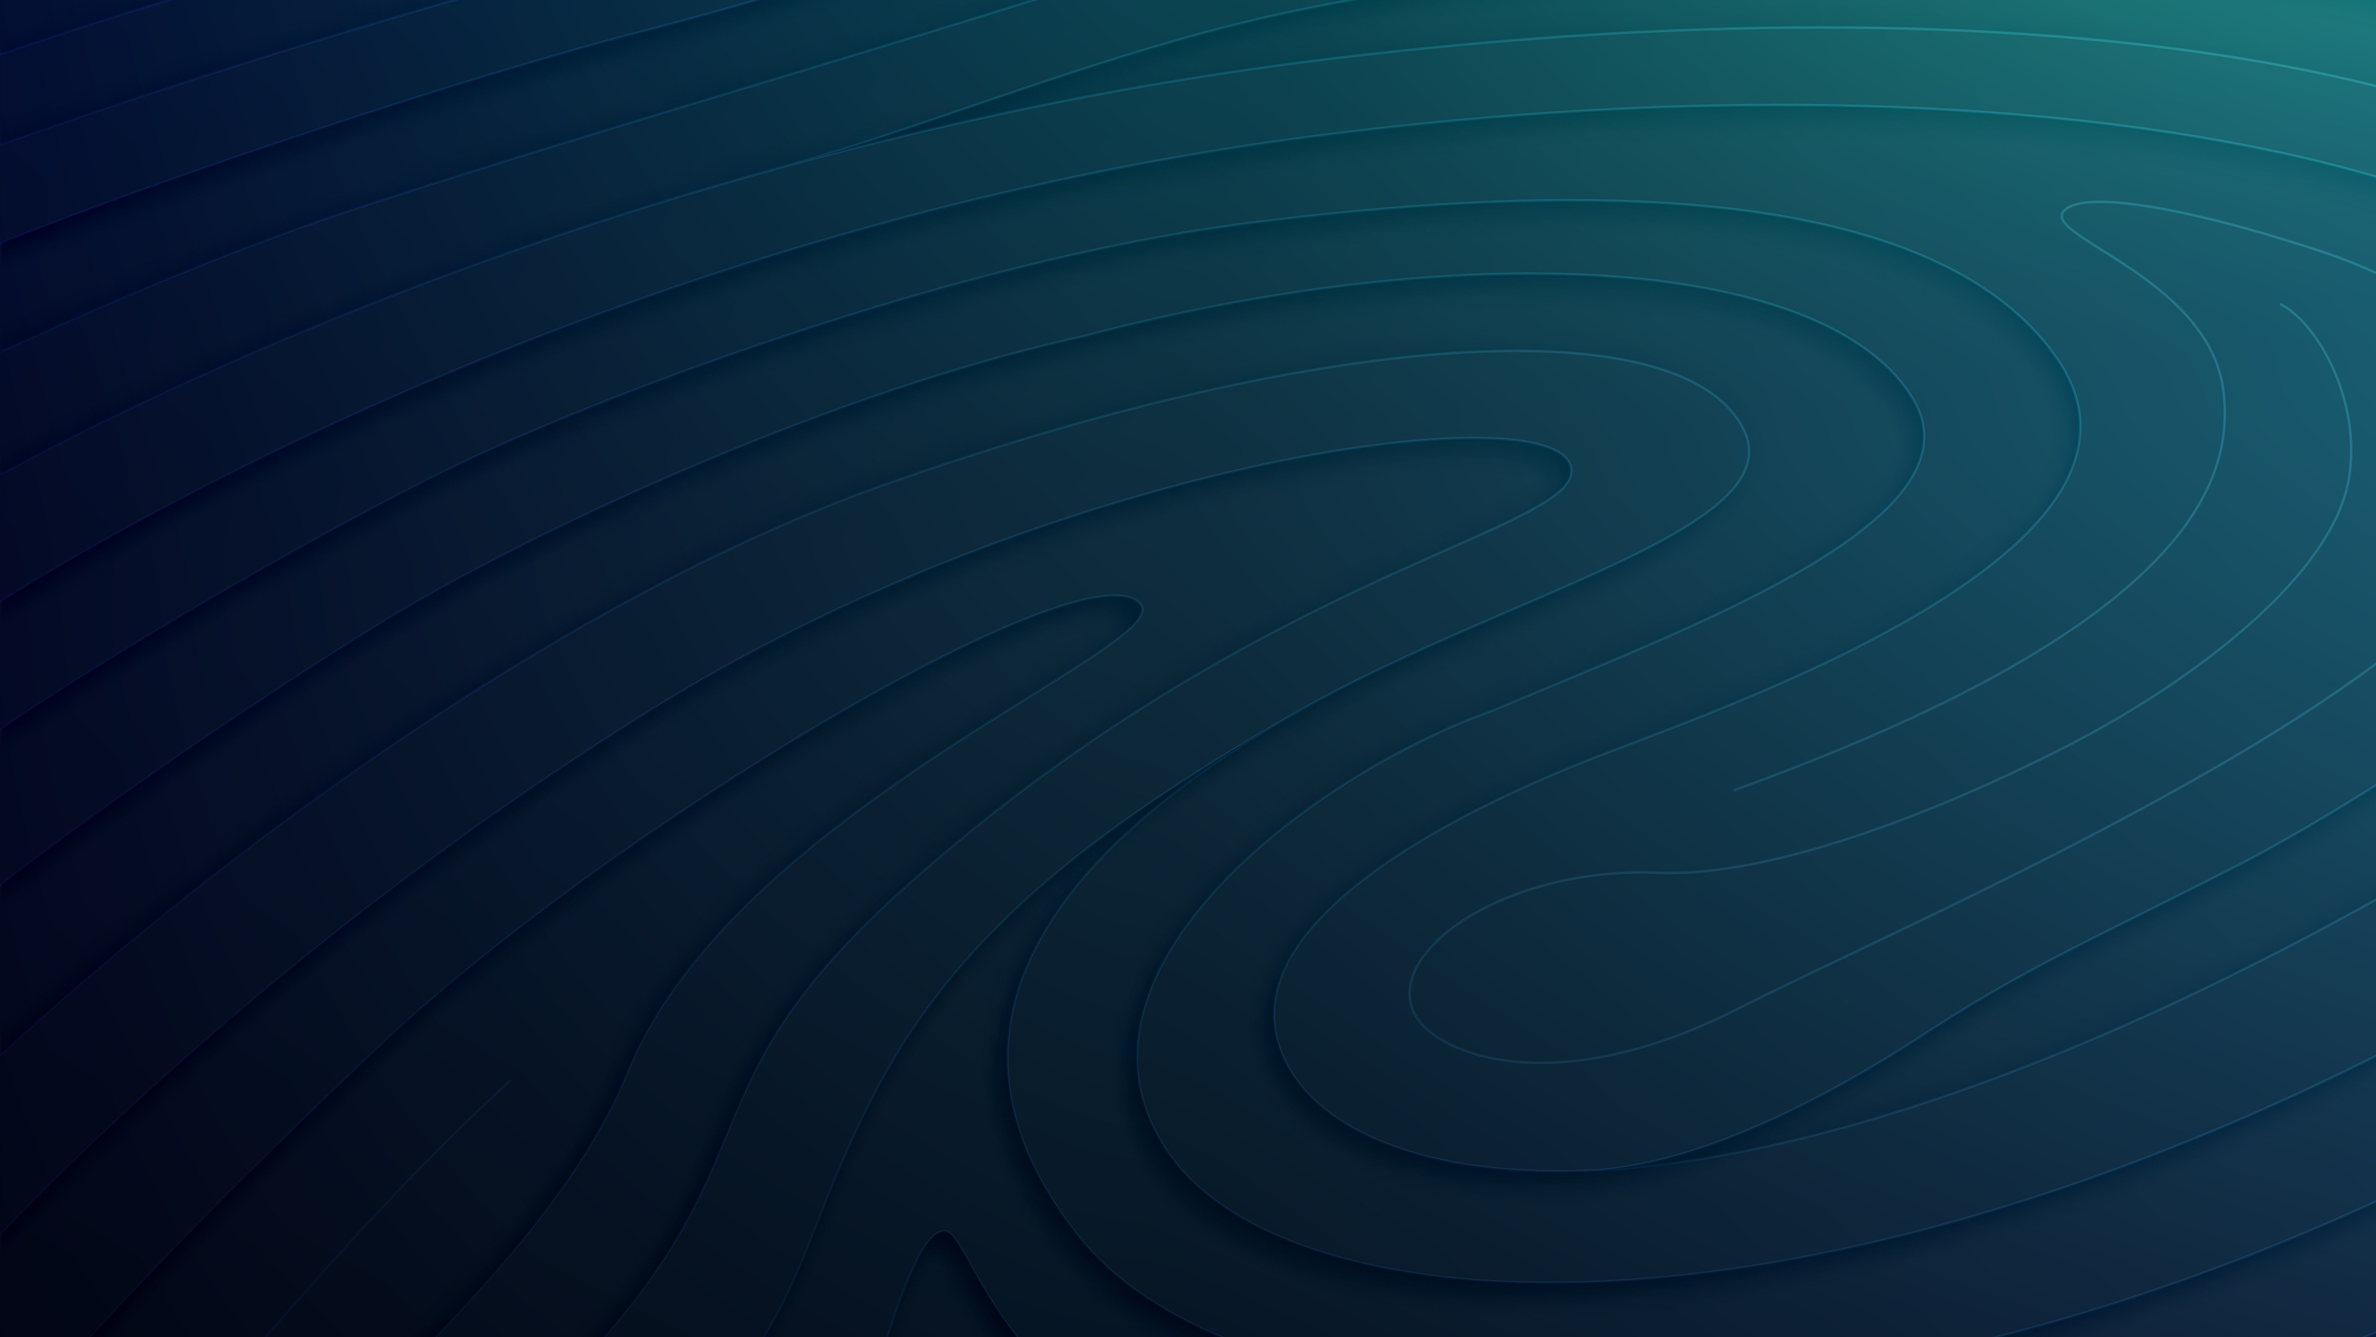
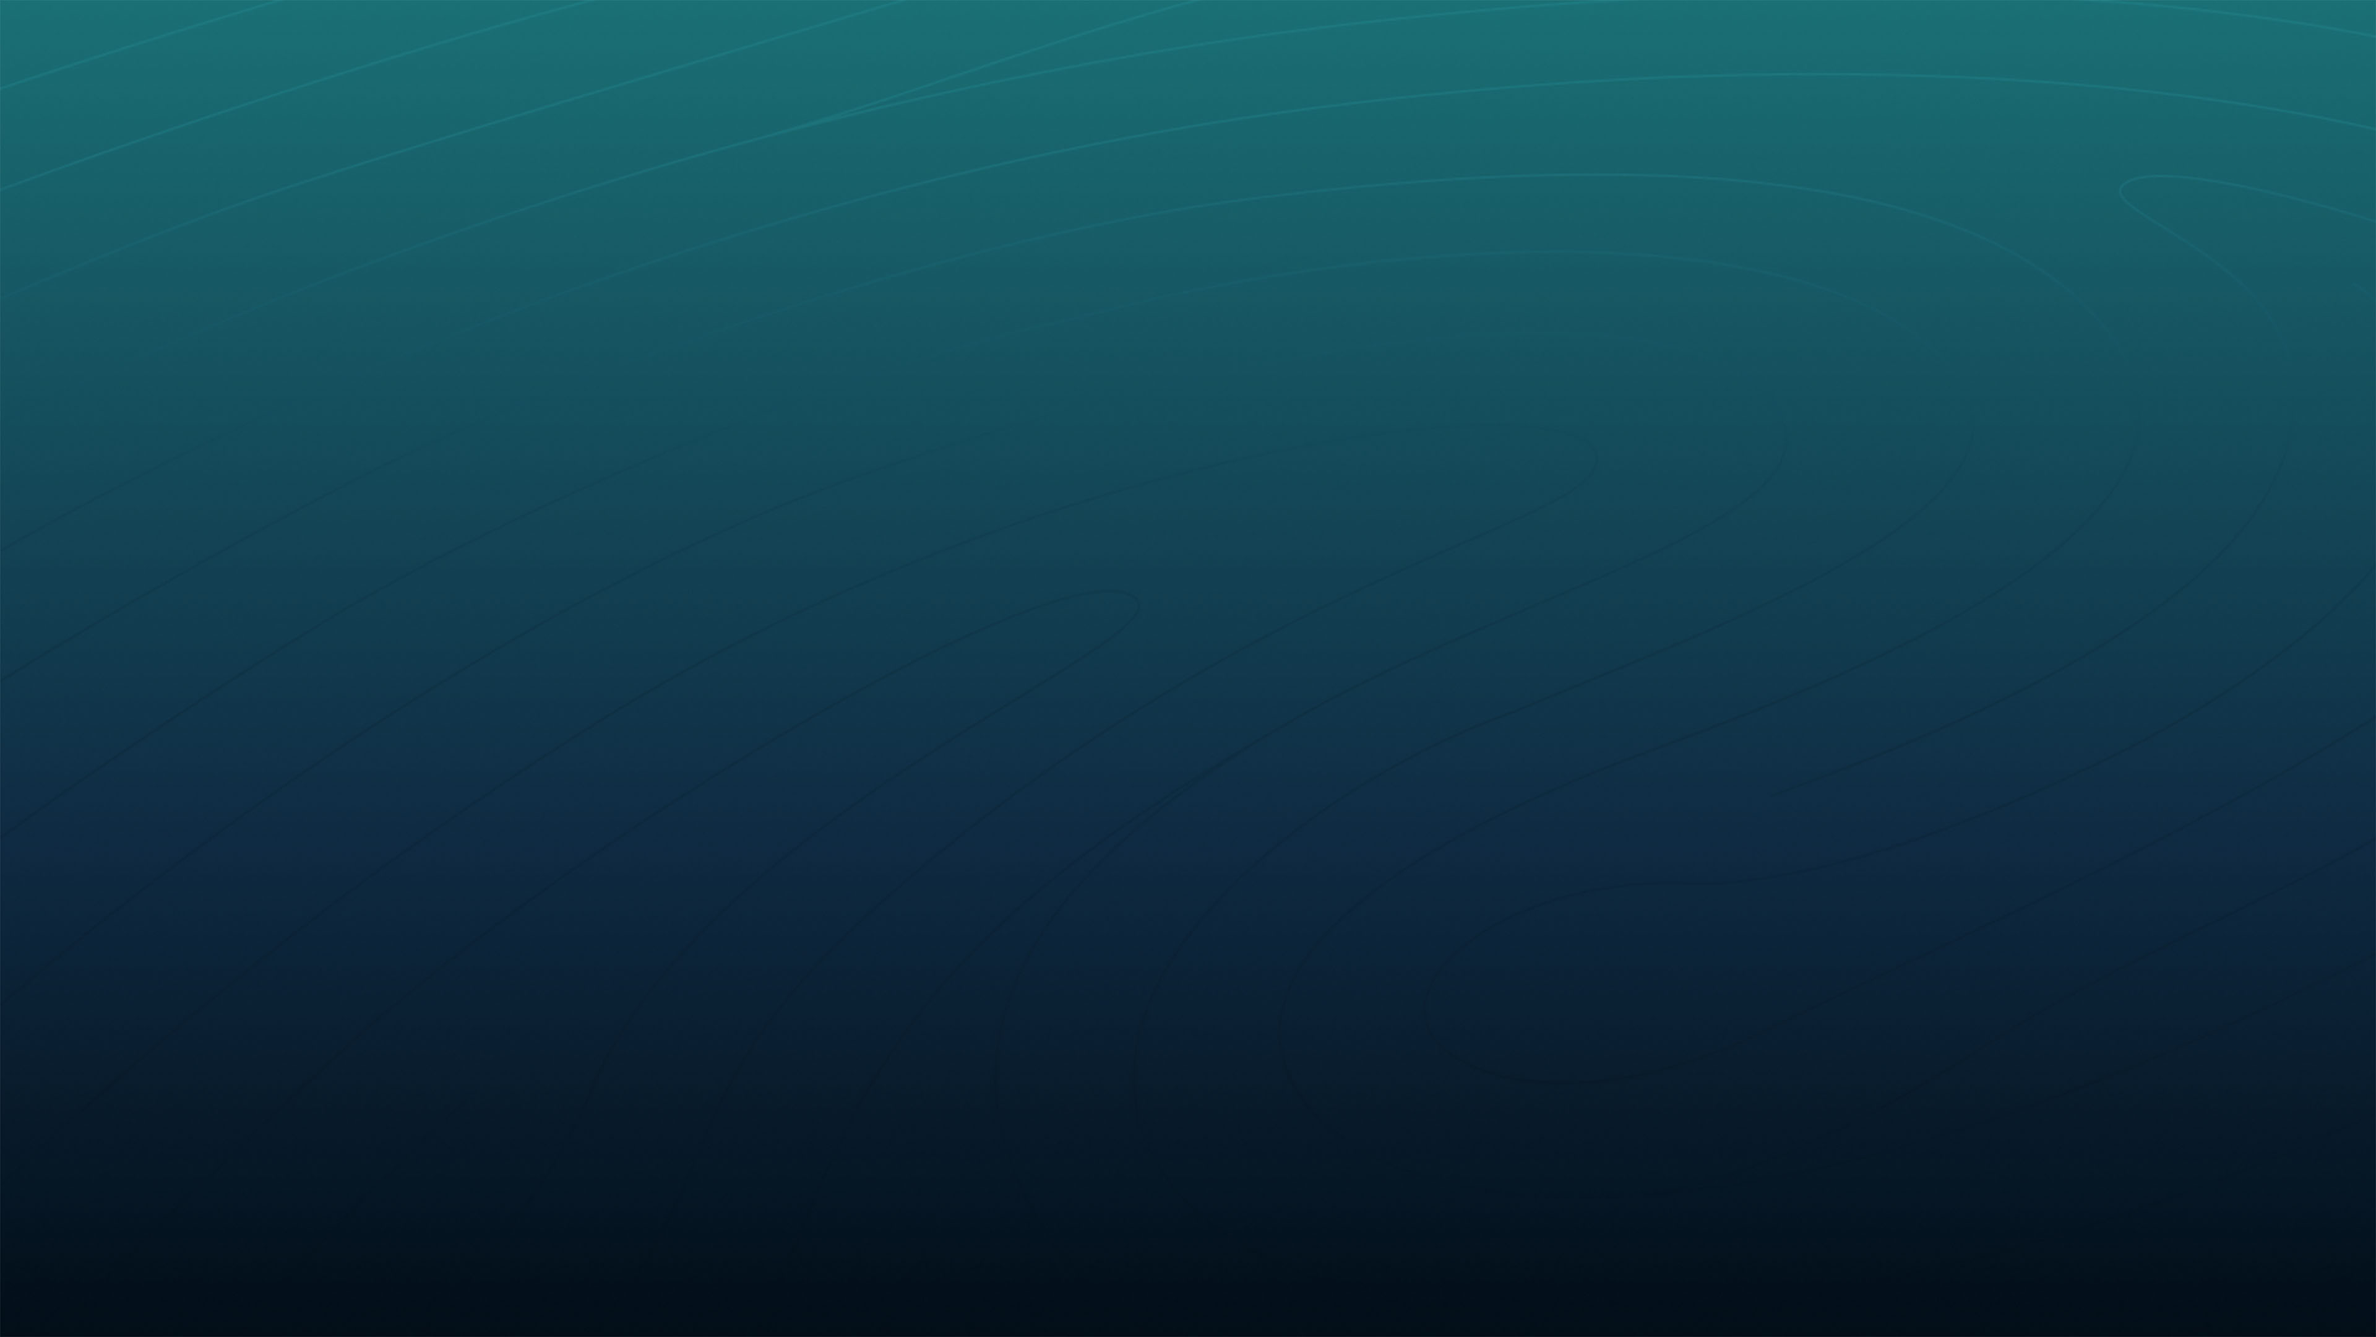
change background and adding footer component and changing language switcher component

diff --git a/src/components/Icons/LanguageEarthIcon.js b/src/components/Icons/LanguageEarthIcon.js
@@ -1,0 +1,36 @@
+import React from 'react'
+
+export default function LanguageEarthIcon({
+  className = 'text-[#30DB9E]',
+  size = 24
+}) {
+  return (
+    <div className={className}>
+      <svg
+        width={size}
+        viewBox="0 0 24 24"
+        fill="none"
+        xmlns="http://www.w3.org/2000/svg"
+      >
+        <path
+          fill-rule="evenodd"
+          clip-rule="evenodd"
+          d="M11.9999 20.0141C16.426 20.0141 20.0141 16.426 20.0141 11.9999C20.0141 7.57369 16.426 3.98557 11.9999 3.98557C7.57369 3.98557 3.98557 7.57369 3.98557 11.9999C3.98557 16.426 7.57369 20.0141 11.9999 20.0141ZM11.9999 21.4284C17.2071 21.4284 21.4284 17.2071 21.4284 11.9999C21.4284 6.7926 17.2071 2.57129 11.9999 2.57129C6.7926 2.57129 2.57129 6.7926 2.57129 11.9999C2.57129 17.2071 6.7926 21.4284 11.9999 21.4284Z"
+          fill="currentColor"
+        />
+        <path
+          fill-rule="evenodd"
+          clip-rule="evenodd"
+          d="M15.1116 17.3417C15.0088 17.5512 14.9005 17.7507 14.7874 17.9392C13.8996 19.4189 12.8701 20.0141 11.9999 20.0141C11.1297 20.0141 10.1002 19.4189 9.21245 17.9392C9.09933 17.7507 8.99103 17.5513 8.88823 17.3417C9.86241 17.546 10.9095 17.657 11.9999 17.657C13.0902 17.657 14.1374 17.546 15.1116 17.3417ZM16.8516 16.8516C15.8623 19.5938 14.0596 21.4284 11.9999 21.4284C9.94021 21.4284 8.13759 19.5938 7.14825 16.8516C4.40595 15.8623 2.57129 14.0596 2.57129 11.9999C2.57129 9.94015 4.40593 8.13751 7.14822 7.14818C8.13756 4.40591 9.94019 2.57129 11.9999 2.57129C14.0597 2.57129 15.8623 4.40594 16.8516 7.14823C19.5938 8.13757 21.4284 9.94018 21.4284 11.9999C21.4284 14.0596 19.5938 15.8622 16.8516 16.8516ZM17.3417 8.88821C17.5513 8.99102 17.7507 9.0993 17.9392 9.21243C19.4189 10.1002 20.0141 11.1297 20.0141 11.9999C20.0141 12.8701 19.4189 13.8996 17.9392 14.7874C17.7507 14.9005 17.5513 15.0088 17.3417 15.1116C17.546 14.1374 17.6571 13.0902 17.6571 11.9999C17.6571 10.9095 17.546 9.8624 17.3417 8.88821ZM15.7302 8.2696C16.0536 9.37464 16.2428 10.6395 16.2428 11.9999C16.2428 13.3602 16.0536 14.6251 15.7302 15.7302C14.6252 16.0536 13.3602 16.2427 11.9999 16.2427C10.6396 16.2427 9.37465 16.0536 8.26962 15.7302C7.94621 14.6252 7.75706 13.3602 7.75706 11.9999C7.75706 10.6395 7.9462 9.37461 8.2696 8.26956C9.37464 7.94617 10.6395 7.75703 11.9999 7.75703C13.3602 7.75703 14.6252 7.94618 15.7302 8.2696ZM15.1117 6.6581C15.0088 6.44852 14.9005 6.24907 14.7874 6.0605C13.8996 4.58086 12.8701 3.98557 11.9999 3.98557C11.1297 3.98557 10.1002 4.58086 9.21245 6.0605C9.09932 6.24906 8.99101 6.44851 8.8882 6.65807C9.86239 6.4538 10.9095 6.34275 11.9999 6.34275C13.0903 6.34275 14.1374 6.45381 15.1117 6.6581ZM6.65811 8.88815C6.44853 8.99097 6.24907 9.09928 6.0605 9.21242C4.58086 10.1002 3.98557 11.1297 3.98557 11.9999C3.98557 12.8701 4.58086 13.8996 6.0605 14.7874C6.24908 14.9005 6.44854 15.0088 6.65812 15.1116C6.45383 14.1374 6.34278 13.0903 6.34278 11.9999C6.34278 10.9095 6.45383 9.86235 6.65811 8.88815Z"
+          fill="currentColor"
+        />
+        <path
+          fill-rule="evenodd"
+          clip-rule="evenodd"
+          d="M11.0616 11.0616C11.0815 9.05445 11.1642 7.23225 11.2899 5.79513C11.3553 5.04819 11.4322 4.40527 11.5179 3.89447C11.659 3.05406 11.8238 2.57129 11.9999 2.57129C12.176 2.57129 12.3408 3.05406 12.4818 3.89447C12.5676 4.40527 12.6445 5.04819 12.7098 5.79513C12.8355 7.23225 12.9183 9.05445 12.9381 11.0616C14.9453 11.0814 16.7675 11.1642 18.2046 11.2899C18.9515 11.3553 19.5945 11.4322 20.1053 11.5179C20.9457 11.6589 21.4284 11.8238 21.4284 11.9999C21.4284 12.176 20.9457 12.3408 20.1053 12.4818C19.5945 12.5675 18.9515 12.6445 18.2046 12.7098C16.7675 12.8355 14.9453 12.9183 12.9381 12.9381C12.9183 14.9453 12.8355 16.7675 12.7098 18.2046C12.6445 18.9515 12.5676 19.5945 12.4818 20.1053C12.3408 20.9457 12.176 21.4284 11.9999 21.4284C11.8238 21.4284 11.659 20.9457 11.5179 20.1053C11.4322 19.5945 11.3553 18.9515 11.2899 18.2046C11.1642 16.7675 11.0815 14.9453 11.0616 12.9381C9.05447 12.9183 7.23226 12.8355 5.79513 12.7098C5.04819 12.6445 4.40527 12.5675 3.89447 12.4818C3.05406 12.3408 2.57129 12.176 2.57129 11.9999C2.57129 11.8238 3.05406 11.6589 3.89447 11.5179C4.40527 11.4322 5.04819 11.3553 5.79513 11.2899C7.23226 11.1642 9.05447 11.0814 11.0616 11.0616Z"
+          fill="currentColor"
+        />
+      </svg>
+    </div>
+  )
+}

diff --git a/src/routes/Home.js b/src/routes/Home.js
@@ -1,11 +1,7 @@
 import React, { useEffect, useState } from 'react'
-import { useQuery } from '@apollo/client'
-import { Link } from 'react-router-dom'
-import styled from '@emotion/styled/macro'
-import { motion } from 'framer-motion'
+import { useQuery, gql } from '@apollo/client'
 import { useTranslation } from 'react-i18next'
 import { useSelector, useDispatch } from 'react-redux'
-import mq from 'mediaQuery'
 
 import { GET_REVERSE_RECORD } from 'graphql/queries'
 
@@ -14,18 +10,19 @@ import { getAccounts, getHomeData } from 'app/slices/accountSlice'
 import SearchDefault from '../components/SearchName/Search'
 import NoAccountsDefault from '../components/NoAccounts/NoAccountsModal'
 import bg from '../assets/heroBG.jpg'
-import MaskGroup from '../assets/mask-group.png'
-import ENSLogo from '../components/HomePage/images/ENSLogo.svg'
-import { aboutPageURL } from '../utils/utils'
 import { connectProvider, disconnectProvider } from '../utils/providerUtils'
-import { gql } from '@apollo/client'
+import {} from '@apollo/client'
 import HamburgerIcon from 'components/Icons/HamburgerIcon'
 import SmallLogoIcon from 'components/Icons/SmallLogoIcon'
 import MobileMenu from 'components/Menu/MobileMenu'
 
 import UnstyledBlockies from 'components/Blockies'
+import TwitterIcon from 'components/Icons/TwitterIcon'
+import DiscordIcon from 'components/DiscordIcon'
+import RoundedIcon from 'components/Icons/RoundedIcon'
 
 import './Home.scss'
+import LanguageSwitcher from 'components/LanguageSwitcher'
 
 export const HOME_DATA = gql`
   query getHomeData($address: string) @client {
@@ -110,6 +107,7 @@ export default ({ match }) => {
         <div className="text-[34px] font-bold">SPACE ID</div>
       </div> */}
 
+      {/* Header component in the home page */}
       <div className="h-[100px] flex py-[20px] px-[48px] xl:px-[48px] justify-between absolute left-0 top-0 items-center w-full">
         <div className="text-[#1EEFA4] flex items-center">
           <SmallLogoIcon size={40} className="text-[#1EEFA4]" />
@@ -150,32 +148,20 @@ export default ({ match }) => {
             </div>
           )}
         </div>
-
-        {/* <div className="hidden lg:flex justify-center items-center z-[1] font-bold">
-          {accounts?.length > 0 && !isReadOnly && (
-            <div className="ml-4 text-right tracking-[0.08em] min-w-[100px] first:ml-0">
-              <Link
-                style={{ color: '#25ffb1' }}
-                active={url === '/address/' + accounts[0]}
-                to={'/address/' + accounts[0]}
-              >
-                {t('c.mynames')}
-              </Link>
-            </div>
-          )}
-          <div className="ml-4 text-right tracking-[0.08em] min-w-[100px] font-bold first:ml-0">
-            <Link style={{ color: '#25ffb1' }} to="/favourites">
-              {t('c.favourites')}
-            </Link>
-          </div>
-          <a
-            className="text-right ml-4 text-[#25ffb1] min-w-[100px] font-bold font-[16px] leading-[19px] first:ml-0"
-            href={aboutPageURL()}
-          >
-            {t('c.about')}
-          </a>
-        </div> */}
       </div>
+
+      {/* Footer component in the home page */}
+      <div className="h-[44px] flex py-[20px] px-[64px] xl:px-[48px] justify-between absolute left-0 bottom-0 items-center w-full bg-[#071A2F]">
+        <div className="flex items-center">
+          <TwitterIcon className="mr-2 text-[#30DB9E]" />
+          <DiscordIcon className="mr-2 text-[#30DB9E]" />
+          <RoundedIcon />
+        </div>
+        <div>
+          <LanguageSwitcher />
+        </div>
+      </div>
+
       <div
         className="flex lg:hidden items-center flex absolute top-[40px] right-7 height-[100px]"
         onClick={() => menuOpen()}
@@ -186,6 +172,7 @@ export default ({ match }) => {
           }}
         />
       </div>
+
       <div className="my-0 mx-auto min-w-[100%] md:min-w-[60%] mt-[30vh]">
         <>
           <div className="flex justify-center text-[72px] text-[#1EEFA4] font-bold font-urbanist tracking-widest">

diff --git a/src/components/DiscordIcon.js b/src/components/DiscordIcon.js
@@ -1,0 +1,25 @@
+import React from 'react'
+
+export default function DiscordIcon({
+  className = 'text-[#30DB9E]',
+  size = 24
+}) {
+  return (
+    <div className={className}>
+      <svg
+        width={size}
+        height="24"
+        viewBox="0 0 24 24"
+        fill="none"
+        xmlns="http://www.w3.org/2000/svg"
+      >
+        <path
+          fill-rule="evenodd"
+          clip-rule="evenodd"
+          d="M5.90011 3.36279H17.8813C18.8917 3.36279 19.7143 4.18606 19.7143 5.20619V21.2598L17.7919 19.5596L16.71 18.5574L15.5656 17.4925L16.0394 19.148H5.90011C4.88975 19.148 4.06716 18.3247 4.06716 17.3046V5.20619C4.06716 4.18606 4.88975 3.36279 5.90011 3.36279ZM13.8399 14.3247C14.1081 14.6648 14.43 15.0496 14.43 15.0496C16.406 14.9869 17.166 13.6894 17.166 13.6894C17.166 10.808 15.8785 8.4724 15.8785 8.4724C14.591 7.50596 13.366 7.5328 13.366 7.5328L13.2408 7.67598C14.7609 8.1413 15.4672 8.81244 15.4672 8.81244C14.5373 8.30238 13.6253 8.05182 12.7759 7.95338C12.1321 7.8818 11.5152 7.89969 10.9698 7.97128C10.9229 7.97128 10.8829 7.9781 10.8378 7.98579C10.8313 7.9869 10.8246 7.98804 10.8178 7.98918C10.5048 8.01602 9.74483 8.13235 8.78812 8.55293C8.4573 8.70506 8.26059 8.81244 8.26059 8.81244C8.26059 8.81244 9.00271 8.10551 10.6121 7.64019L10.5227 7.5328C10.5227 7.5328 9.29777 7.50596 8.01024 8.4724C8.01024 8.4724 6.7227 10.808 6.7227 13.6894C6.7227 13.6894 7.47376 14.9869 9.44977 15.0496C9.44977 15.0496 9.7806 14.6469 10.0488 14.3068C8.9133 13.9668 8.48412 13.2509 8.48412 13.2509C8.48412 13.2509 8.57353 13.3135 8.73447 13.403C8.74342 13.412 8.75236 13.4209 8.77024 13.4299C8.78365 13.4388 8.79706 13.4455 8.81047 13.4522C8.82389 13.459 8.8373 13.4657 8.85071 13.4746C9.07424 13.5999 9.29777 13.6983 9.50342 13.7789C9.87001 13.922 10.3081 14.0652 10.8178 14.1637C11.4884 14.2889 12.2752 14.3337 13.1336 14.1726C13.5538 14.101 13.983 13.9757 14.43 13.7878C14.743 13.6715 15.0917 13.5015 15.4583 13.2599C15.4583 13.2599 15.0112 13.9936 13.8399 14.3247ZM9.36045 11.8641C9.36045 11.3183 9.7628 10.8708 10.2725 10.8708C10.7821 10.8708 11.1934 11.3183 11.1845 11.8641C11.1845 12.41 10.7821 12.8574 10.2725 12.8574C9.77175 12.8574 9.36045 12.41 9.36045 11.8641ZM12.624 11.8641C12.624 11.3183 13.0263 10.8708 13.536 10.8708C14.0456 10.8708 14.448 11.3183 14.448 11.8641C14.448 12.41 14.0456 12.8574 13.536 12.8574C13.0353 12.8574 12.624 12.41 12.624 11.8641Z"
+          fill="#30DB9E"
+        />
+      </svg>
+    </div>
+  )
+}

diff --git a/src/components/LanguageSwitcher/LanguageSwitcher.js b/src/components/LanguageSwitcher/LanguageSwitcher.js
@@ -6,6 +6,7 @@ import { useOnClickOutside } from 'components/hooks'
 import RotatingSmallCaret from '../Icons/RotatingSmallCaret'
 
 import './LanguageSwitcher.scss'
+import LanguageEarthIcon from 'components/Icons/LanguageEarthIcon'
 
 const LANGUAGES = [
   {
@@ -89,23 +90,26 @@ export default function LanguageSwitcher() {
   }
 
   return (
-    <div className="relative bg-[#93c4b214]">
+    <div className="relative">
       <div
         className="text-[#adbbcd] uppercase flex justify-enter h-full py-0 px-[6px] items-center hover:cursor-pointer"
         ref={togglerRef}
         onClick={() => setShowDropdown(show => !show)}
       >
-        <span className="mr-0 text-white">{languageSelected.value}</span>
-        <RotatingSmallCaret
+        <span className="mr-0 text-[#30DB9E] font-semibold font-urbanist text-[16px] mr-1">
+          {languageSelected.value}
+        </span>
+        <LanguageEarthIcon />
+        {/* <RotatingSmallCaret
           start="top"
           rotated={showDropdown ? 1 : 0}
           highlight={1}
-        />
+        /> */}
       </div>
       {showDropdown && (
         <AnimatePresence>
           <motion.div
-            className="absolute bg-white top-[100%] right-0 mt-[10px] rounded-[8px] shadow-dropdown w-[230px] z-[2] max-h-[180px] overflow-y-auto dropdown-container"
+            className="absolute bg-[#071A2F] bottom-0 right-0 mt-[10px] rounded-[8px] shadow-dropdown w-[230px] z-[2] max-h-[180px] overflow-y-auto dropdown-container border border-[##1EEFA4]"
             ref={dropdownRef}
             initial={{ opacity: 0, height: 0 }}
             animate={{ opacity: 1, height: 'auto' }}

diff --git a/src/components/Icons/TwitterIcon.js b/src/components/Icons/TwitterIcon.js
@@ -1,0 +1,22 @@
+import React from 'react'
+
+export default function TwitterIcon({
+  className = 'text-[#30DB9E]',
+  size = 20
+}) {
+  return (
+    <div className={className}>
+      <svg
+        width={size}
+        viewBox="0 0 20 17"
+        fill="none"
+        xmlns="http://www.w3.org/2000/svg"
+      >
+        <path
+          d="M6.38252 16.25C13.7414 16.25 17.7656 10.1912 17.7656 4.93713C17.7656 4.76504 17.7621 4.59372 17.7543 4.42319C18.5355 3.86195 19.2145 3.16158 19.75 2.36429C19.0332 2.68096 18.2617 2.89413 17.4525 2.99025C18.2785 2.49801 18.9126 1.71934 19.2118 0.791082C18.4388 1.2465 17.5828 1.57751 16.6713 1.75621C15.9413 0.98338 14.9019 0.5 13.751 0.5C11.5417 0.5 9.75004 2.28063 9.75004 4.4755C9.75004 4.78751 9.78514 5.091 9.85378 5.38211C6.52868 5.21583 3.58024 3.63367 1.60697 1.2279C1.26338 1.81548 1.06526 2.49803 1.06526 3.22632C1.06526 4.60576 1.77157 5.82354 2.84563 6.53596C2.18924 6.51581 1.57265 6.33673 1.03372 6.03868C1.03313 6.05536 1.03313 6.07163 1.03313 6.08945C1.03313 8.01504 2.41218 9.62274 4.2428 9.98705C3.90662 10.0781 3.55292 10.127 3.18785 10.127C2.93046 10.127 2.67968 10.1018 2.43593 10.0553C2.94527 11.6351 4.42222 12.7847 6.17327 12.8168C4.80397 13.8835 3.07903 14.5188 1.20431 14.5188C0.881781 14.5188 0.563154 14.5005 0.25 14.4637C2.02061 15.5916 4.12305 16.2498 6.38273 16.2498"
+          fill="currentColor"
+        />
+      </svg>
+    </div>
+  )
+}

diff --git a/src/components/Icons/RoundedIcon.js b/src/components/Icons/RoundedIcon.js
@@ -1,0 +1,24 @@
+import React from 'react'
+
+export default function RoundedIcon({
+  className = 'text-[#30DB9E]',
+  size = 24
+}) {
+  return (
+    <div className={className}>
+      <svg
+        width={size}
+        viewBox="0 0 24 24"
+        fill="none"
+        xmlns="http://www.w3.org/2000/svg"
+      >
+        <path
+          fill-rule="evenodd"
+          clip-rule="evenodd"
+          d="M13.4209 12.0068C13.4209 15.7384 10.4165 18.7634 6.71056 18.7634C3.00463 18.7634 0 15.7384 0 12.0068C0 8.27524 3.00441 5.25 6.71056 5.25C10.4167 5.25 13.4209 8.27524 13.4209 12.0068ZM20.7823 12.0069C20.7823 15.5193 19.2801 18.3679 17.427 18.3679C15.5739 18.3679 14.0717 15.5193 14.0717 12.0069C14.0717 8.49442 15.5737 5.64587 17.4268 5.64587C19.2799 5.64587 20.7821 8.49351 20.7821 12.0069H20.7823ZM22.6133 17.7053C23.2651 17.7053 23.7934 15.1531 23.7934 12.0068C23.7934 8.85959 23.2649 6.30835 22.6133 6.30835C21.9617 6.30835 21.4335 8.85982 21.4335 12.0068C21.4335 15.1538 21.9615 17.7053 22.6133 17.7053Z"
+          fill="currentColor"
+        />
+      </svg>
+    </div>
+  )
+}
